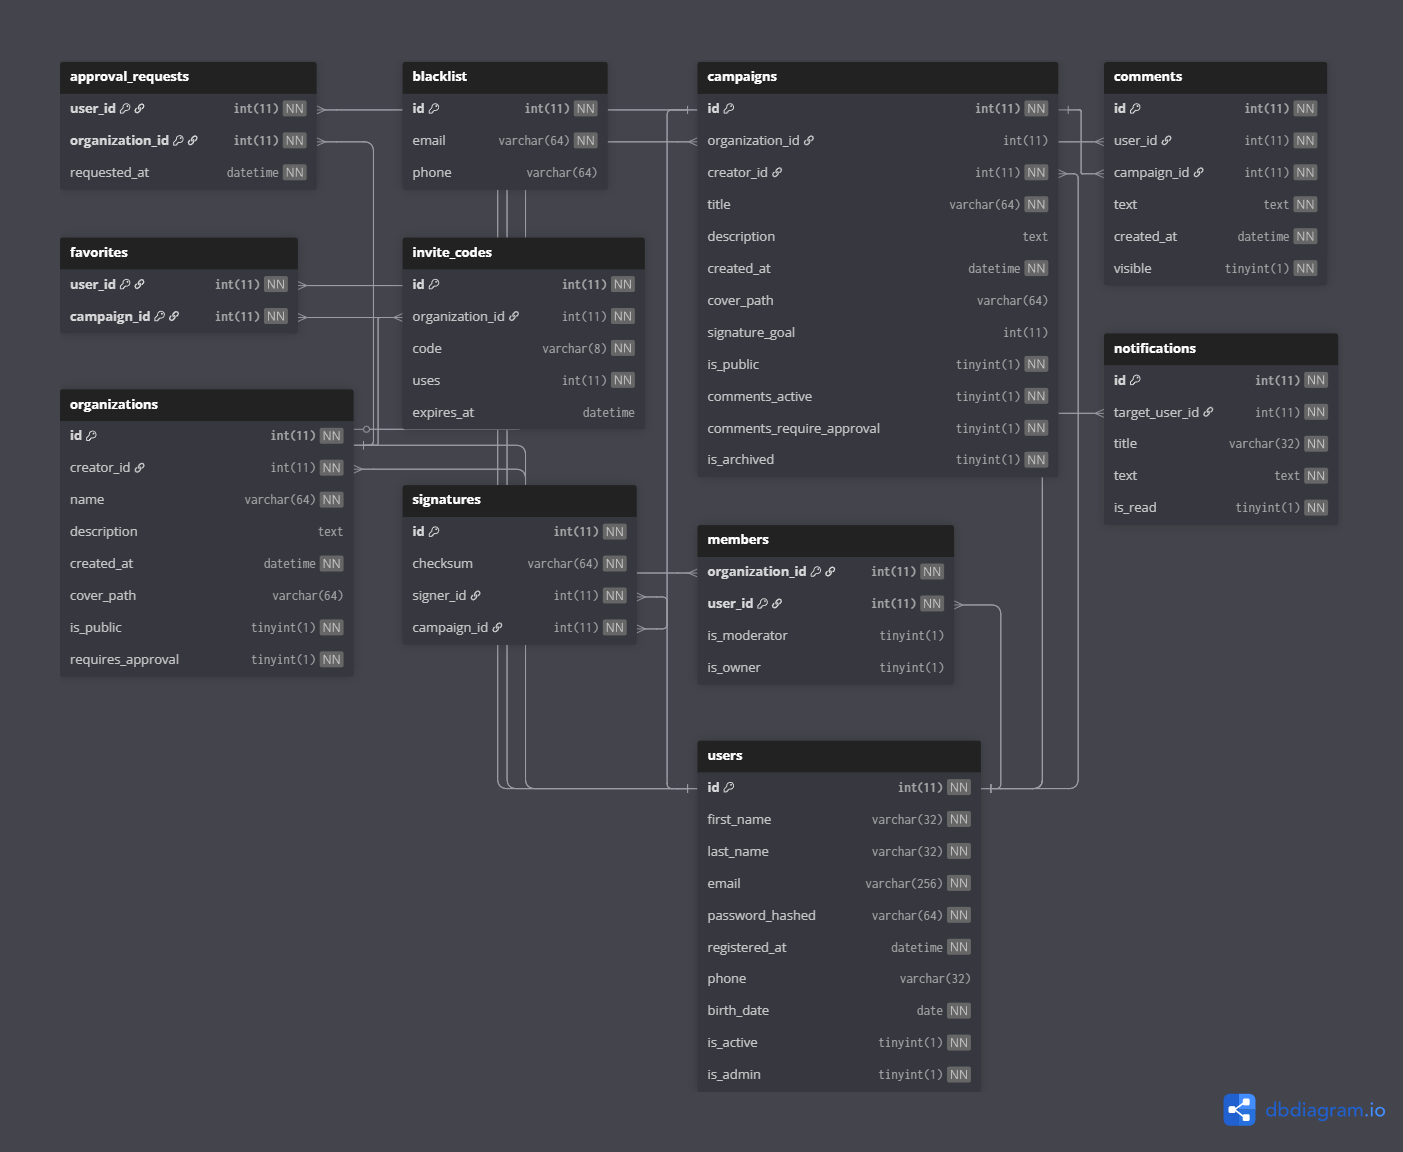
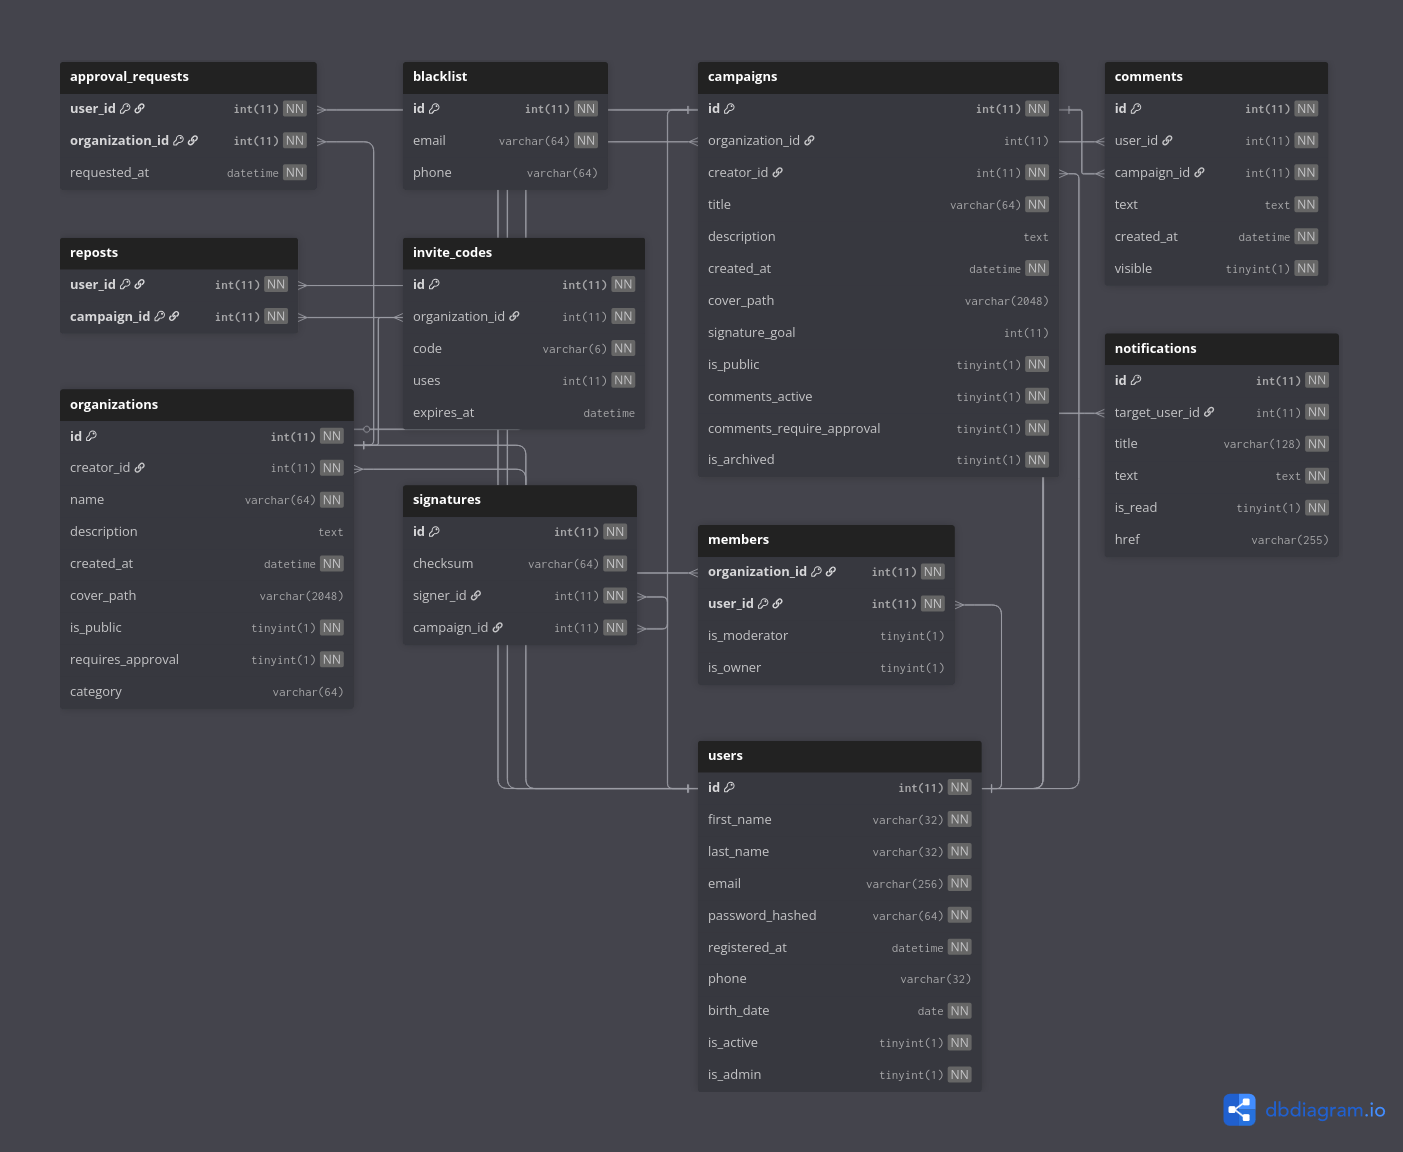
updated readme; new theme

diff --git a/src/app/globals.css b/src/app/globals.css
@@ -48,6 +48,19 @@
   --accent-900: #762626;
   --accent-950: #400f0f;
 
+  /* Matcha */
+  /* --accent-50: #f2fbf3;
+  --accent-100: #e2f6e5;
+  --accent-200: #c6eccc;
+  --accent-300: #99dca4;
+  --accent-400: #64c474;
+  --accent-500: #3fa851;
+  --accent-600: #2f8a3f;
+  --accent-700: #286d34;
+  --accent-800: #24572d;
+  --accent-900: #1f4827;
+  --accent-950: #0f2f16; */
+
   /* San Marino */
   /* --accent-50: #f3f7fb;
   --accent-100: #e3ebf6;

diff --git a/README.md b/README.md
@@ -3,7 +3,7 @@
 [![wakatime](https://wakatime.com/badge/github/lucAmbr0/make-a-change.svg)](https://wakatime.com/badge/github/lucAmbr0/make-a-change)
 ![Status](https://img.shields.io/badge/status-in%20development-orange)
 ![License](https://img.shields.io/badge/license-GNU%20GPL%20v3.0-yellow)
-![Lines of Code](https://img.shields.io/badge/lines-15.3k-blue)
+![Lines of Code](https://img.shields.io/badge/lines-16.8k-blue)
 <!-- cloc src scripts -->
 ![GitHub repo size](https://img.shields.io/github/repo-size/lucAmbr0/make-a-change)
 ![GitHub commit activity](https://img.shields.io/github/commit-activity/t/lucAmbr0/make-a-change)